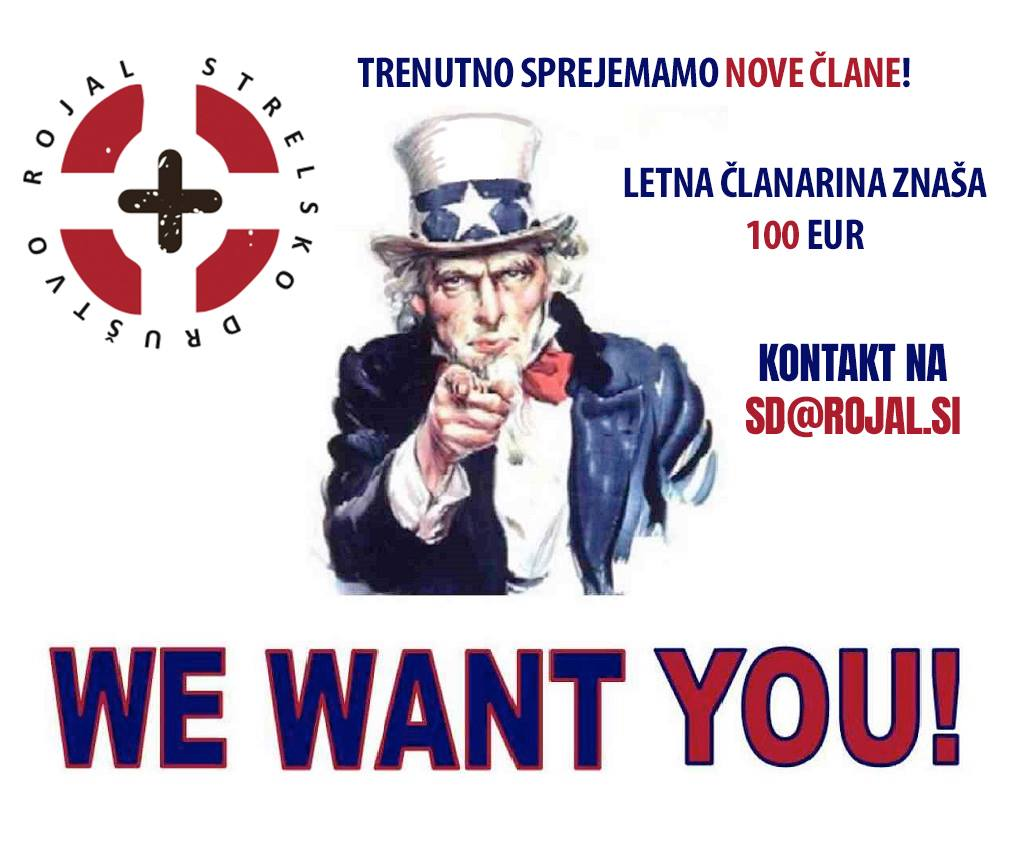
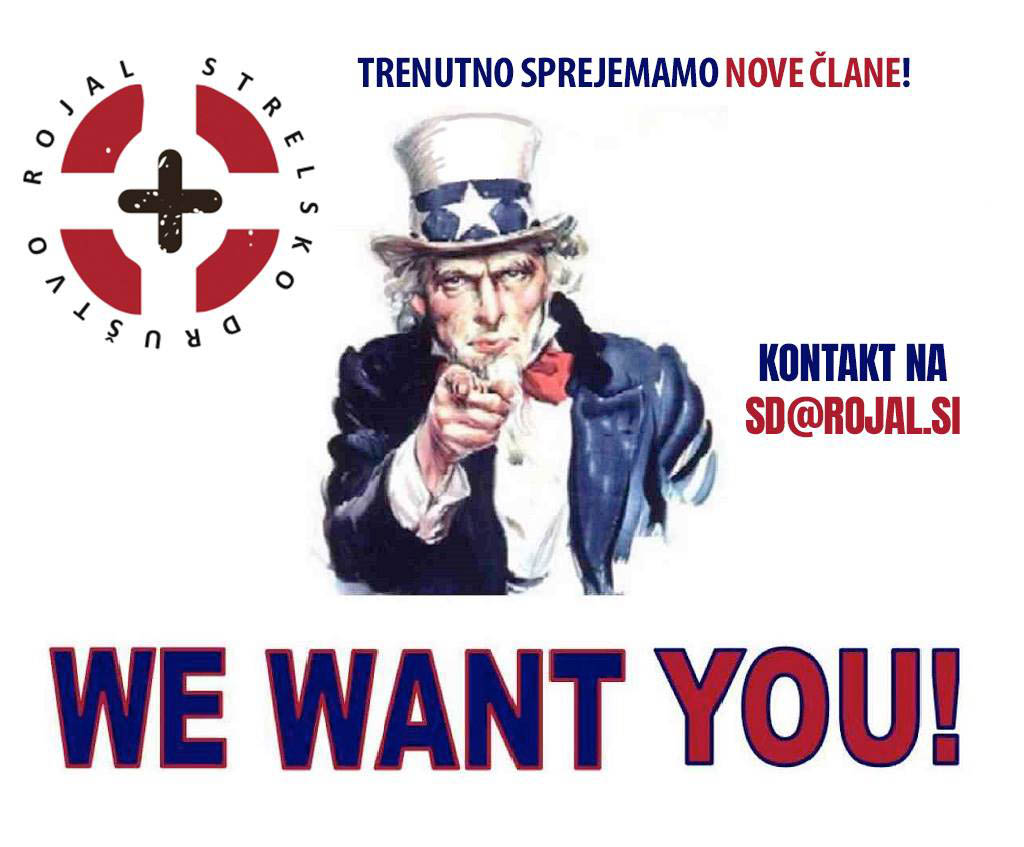
posodobili clanarino

Changed region(s): [[0.5938, 0.1842, 0.9688, 0.307]]

diff --git a/_includes/clanstvo.html b/_includes/clanstvo.html
@@ -11,19 +11,11 @@
                 <div class="col-lg-12">
                     <img class="img-responsive" src="/img/clanstvo.jpg">
                 </div>
-                <div class="col-md-4">
+                <div class="col-md-6">
                     <h4 class="service-heading">Redno članstvo</h4>
                     <p class="text-muted">Redni člani imajo na voljo neomejeno uporabo notranjega strelišča med odprtjem strelišča. Vlogo za sprejem v društvo lahko najdete <a target="_blank" href="https://docs.google.com/document/d/1gIDER8VmWUo3W4xFOqKos9sBrSQiWTSJAVHyXxYsH1Q/edit?usp=sharing">tukaj</a>.</p>
                 </div>
-                <div class="col-md-4"><!--
-                    <span class="fa-stack fa-4x">
-                        <i class="fa fa-circle fa-stack-2x text-primary"></i>
-                        <i class="fa fa-laptop fa-stack-1x fa-inverse"></i>
-                    </span> -->
-                    <h4 class="service-heading">Enodnevni člani</h4>
-                    <p class="text-muted">Enodnevni člani imajo pravico uporabe strelišča za eno uro.</p>
-                </div>
-                <div class="col-md-4">
+                <div class="col-md-6">
                     <!-- <span class="fa-stack fa-4x">
                         <i class="fa fa-circle fa-stack-2x text-primary"></i>
                         <i class="fa fa-lock fa-stack-1x fa-inverse"></i>
